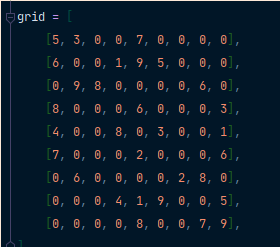
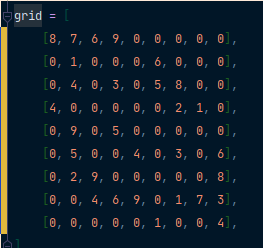
screenshots :octocat:

diff --git a/SudokuSolver.py b/SudokuSolver.py
@@ -7,15 +7,15 @@
 import numpy as np
 
 grid = [
-    [5, 3, 0, 0, 7, 0, 0, 0, 0],
-    [6, 0, 0, 1, 9, 5, 0, 0, 0],
-    [0, 9, 8, 0, 0, 0, 0, 6, 0],
-    [8, 0, 0, 0, 6, 0, 0, 0, 3],
-    [4, 0, 0, 8, 0, 3, 0, 0, 1],
-    [7, 0, 0, 0, 2, 0, 0, 0, 6],
-    [0, 6, 0, 0, 0, 0, 2, 8, 0],
-    [0, 0, 0, 4, 1, 9, 0, 0, 5],
-    [0, 0, 0, 0, 8, 0, 0, 7, 9],
+    [8, 7, 6, 9, 0, 0, 0, 0, 0],
+    [0, 1, 0, 0, 0, 6, 0, 0, 0],
+    [0, 4, 0, 3, 0, 5, 8, 0, 0],
+    [4, 0, 0, 0, 0, 0, 2, 1, 0],
+    [0, 9, 0, 5, 0, 0, 0, 0, 0],
+    [0, 5, 0, 0, 4, 0, 3, 0, 6],
+    [0, 2, 9, 0, 0, 0, 0, 0, 8],
+    [0, 0, 4, 6, 9, 0, 1, 7, 3],
+    [0, 0, 0, 0, 0, 1, 0, 0, 4],
 ]
 
 

diff --git a/README.md b/README.md
@@ -3,8 +3,17 @@
 
 # Sudoku Solver  
 
+One Sudoku  
+![Screenshot](sudoku.jpg)    
+
+
+Put it in the code (with or without spaces)  
 ![Screenshot](screenshot.png)  
+
+
+The solution (one or many if possible)  
 ![Screenshot1](screenshot1.png)  
+
 
  Developer : Hamdy Abou ElAnein                                                                                              
   hamdy.aea@protonmail.com  
